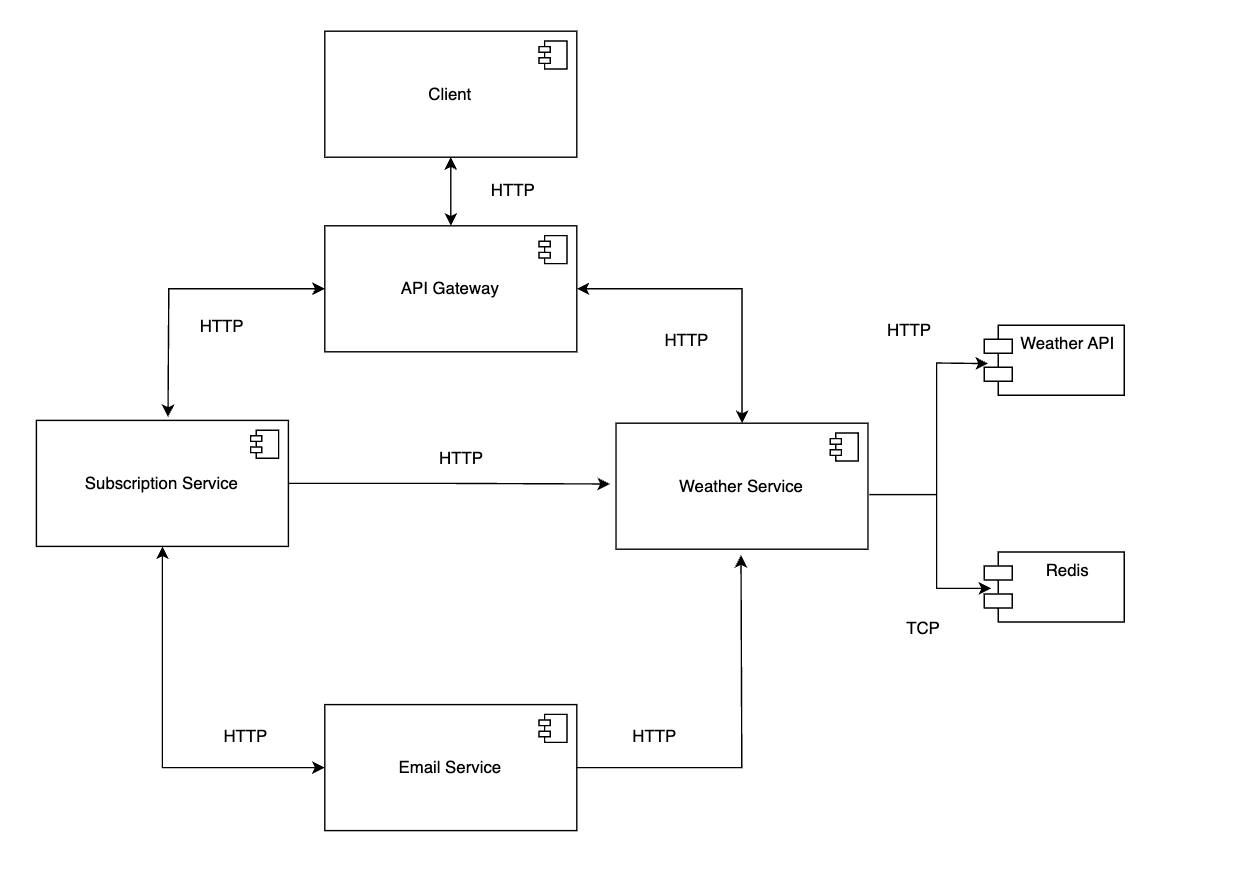
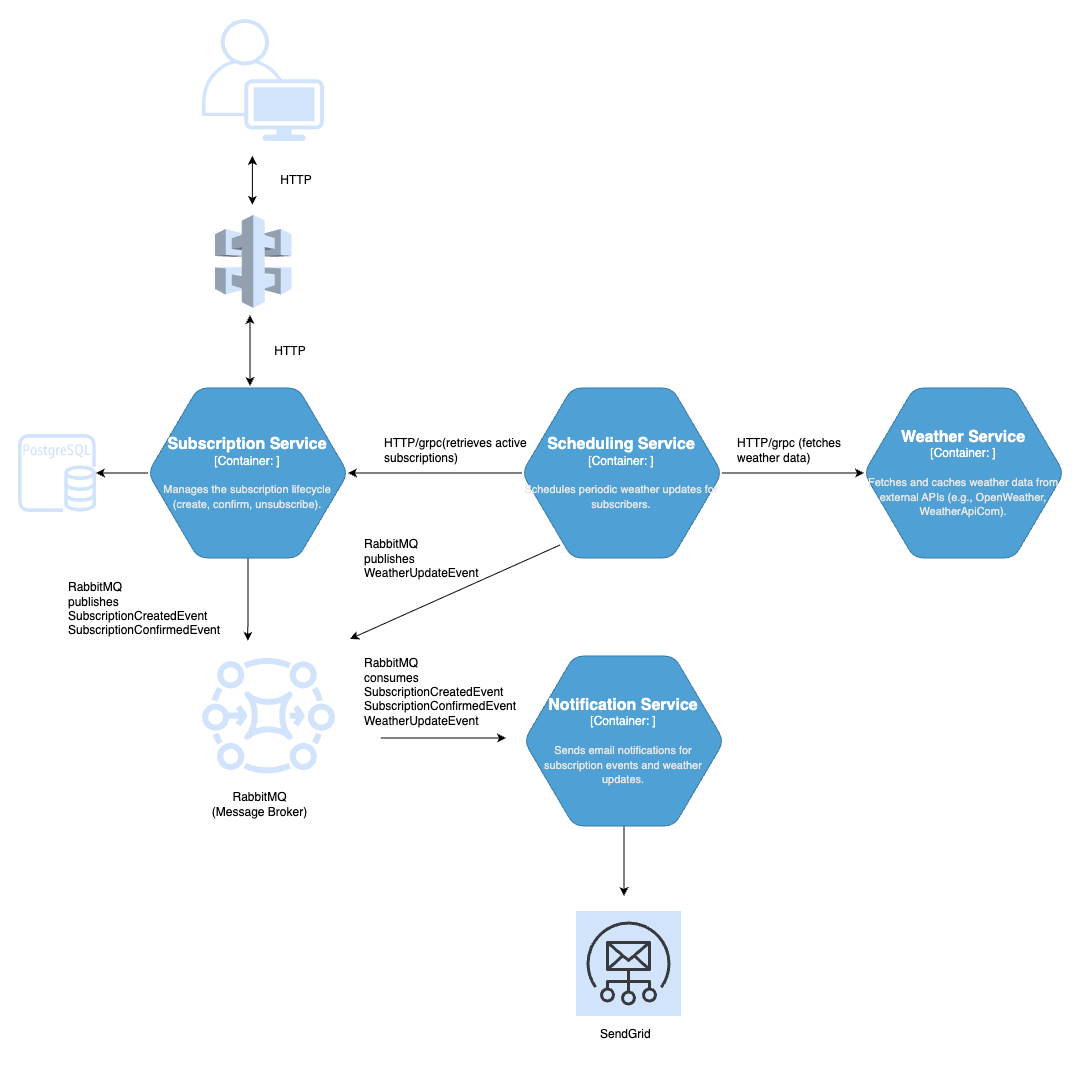
Refine microservices seperation

diff --git a/docs/microservices.md b/docs/microservices.md
@@ -1,164 +1,62 @@
+## Microservice Seperation
 
-1.Microservices Breakdown
-   The application is split into the following independent microservices, each with a clearly defined responsibility:
-   2.1. API Gateway
+- Subscription Service: Manages user subscriptions, a core business domain with distinct logic and database (e.g., Sequelize for subscription data).
+- Weather Service: Handles external API calls and caching, which can be resource-intensive and benefits from independent scaling.
+- Notification Service: Manages email sending, which can be computationally expensive and requires integration with external services (e.g., SMTP servers). It’s a natural fit for a separate service, especially with upcoming task to add a message broker.
+- Scheduling Service: Coordinates periodic tasks, which can be isolated to avoid impacting other services’ performance.
+## 🔄 Optimal Microservice Communication
 
-Responsibility: Acts as the single entry point for external clients, routing HTTP requests to the appropriate microservices.
-Purpose: Centralizes request handling, authentication, and load balancing, providing a unified interface for clients.
-Interface: REST HTTP (accepts client requests and forwards them to internal services).
-Example Endpoints:
-POST /subscriptions: Create a new subscription.
-GET /weather: Fetch weather data for a city.
+#### Synchronous Communication (REST/HTTP):
 
+Use Case: For immediate, request-response interactions, such as fetching weather data or creating subscriptions.
 
-Location: Deployed as a standalone service, potentially using a framework like Express.js.
+#### Asynchronous Communication (Message Broker):
 
-2.2. Subscription Service
+Use Case: For event-driven interactions, such as notifying the Notification Service about subscription events or triggering weather updates.
 
-Responsibility: Manages user subscriptions, including creation, confirmation, and deletion.
-Stores: User email, subscription frequency (hourly, daily), and subscription status.
-Interface: REST HTTP (exposes endpoints for subscription management).
-Example Endpoints:
-POST /subscriptions: Create a new subscription.
-DELETE /subscriptions/:id: Unsubscribe a user.
-GET /subscriptions/confirmed: Retrieve confirmed subscribers.
+## 🔄 User Flow in Microservices Architecture
 
+The detailed flow of the user interaction mapped to my microservices architecture:
 
-Location: src/services/subscription-service/.
+1. **User Enters Email, City, and Frequency**:
+   - The user accesses a web page served by the **User Interface** (an Express.js app).
+   - They input their email (e.g., `user@example.com`), city (e.g., `Kyiv`), and frequency (e.g., `hourly`) into a form.
+   - The form submits a `POST /subscriptions` request to the **Subscription Service**.
 
-2.3. Weather Service
+2. **User Clicks "Subscribe"**:
+   - **The Subscription Service**:
+      - Validates the input using `subscriptionValidator.ts`.
+      - Executes `CreateSubscriptionUseCase`, which:
+         - Creates a `Subscription` entity with a pending status and generates confirmation/unsubscribe tokens.
+         - Saves the subscription to the database via `SequelizeSubscriptionRepository`.
+         - Publishes a `SubscriptionCreatedEvent` to the `subscription.created` queue in RabbitMQ.
+      - Returns a success response to the User Interface (e.g., `{ message: "Subscription created, please check your email" }`).
+   - **The Notification Service**:
+      - Consumes the `SubscriptionCreatedEvent` from RabbitMQ.
+      - Executes `sendConfirmationEmail` via `EmailService`, sending a confirmation email with a link (e.g., `GET /subscriptions/confirm/:token`).
 
-Responsibility:
-Fetches current weather data from external APIs.
-Caches weather data to optimize performance.
+3. **User Receives Confirmation Email**:
+   - The user receives an email with a confirmation link (e.g., `http://api.example.com/subscriptions/confirm/abc123`).
+   - The email is sent by the **Notification Service** using `EmailSender` (e.g., Nodemailer).
 
+4. **User Clicks "Confirm"**:
+   - The user clicks the confirmation link, sending a `GET /subscriptions/confirm/:token` request to the **Subscription Service**.
+   - **The Subscription Service**:
+      - Executes `ConfirmSubscriptionUseCase`, which:
+         - Finds the subscription by token using `SequelizeSubscriptionRepository`.
+         - Updates the subscription status to `confirmed`.
+         - Publishes a `SubscriptionConfirmedEvent` to the `subscription.confirmed` queue.
+      - Returns a success response to the User Interface (e.g., `{ message: "Subscription confirmed" }`).
+   - **The Notification Service**:
+      - Consumes the `SubscriptionConfirmedEvent` and sends a confirmation acknowledgment email (optional).
 
-Dependencies:
-External weather API (via REST HTTP).
-Redis (for caching, accessed via REST HTTP or a compatible client).
-
-
-Interface: REST HTTP (for internal calls and external API interactions).
-Example Endpoints:
-GET /weather/:city: Retrieve weather data for a specific city.
-POST /weather/cache: Store weather data in cache.
-
-
-Location: src/services/weather-service/.
-
-2.4. Email Service
-
-Responsibility:
-Sends emails for subscription confirmation, weather forecasts, and unsubscribe actions.
-Manages email templates and schedules forecast emails (e.g., via cron jobs).
-
-
-Dependencies: External email providers (accessed via REST HTTP APIs or SMTP wrapped in HTTP).
-Interface: REST HTTP (for internal calls from other services).
-Example Endpoints:
-POST /emails/confirmation: Send a subscription confirmation email.
-POST /emails/forecast: Send weather forecast emails to subscribers.
-
-
-Location: src/services/email-service/.
-
-2. Communication Strategy
-   All inter-service communication is implemented using REST HTTP to ensure simplicity, compatibility, and ease of debugging. The communication flow between services is outlined below:
-
-
-
-Source
-Destination
-Purpose
-Protocol / Method
-
-
-
-Client
-API Gateway
-Entry point for all client requests
-REST HTTP (e.g., POST /subscriptions)
-
-
-API Gateway
-Subscription Service
-Forward requests to manage user subscriptions
-REST HTTP (e.g., POST /subscriptions)
-
-
-API Gateway
-Weather Service
-Forward requests to fetch weather data
-REST HTTP (e.g., GET /weather/:city)
-
-
-Subscription Service
-Email Service
-Trigger confirmation or unsubscribe emails
-REST HTTP (e.g., POST /emails/confirmation)
-
-
-Subscription Service
-Weather Service
-Validate user-provided city by fetching weather data
-REST HTTP (e.g., GET /weather/:city)
-
-
-Weather Service
-External API
-Retrieve weather forecast data
-REST HTTP (e.g., GET /api/weather)
-
-
-Weather Service
-Redis
-Cache weather data for reuse
-REST HTTP (via Redis HTTP client or adapter)
-
-
-Email Service
-Subscription Service
-Fetch confirmed subscribers for forecast emails
-REST HTTP (e.g., GET /subscriptions/confirmed)
-
-
-Email Service
-Weather Service
-Retrieve weather data for each subscriber's city
-REST HTTP (e.g., GET /weather/:city)
-
-
-
-REST HTTP Details:
-All services expose RESTful APIs with standard HTTP methods (GET, POST, PUT, DELETE).
-JSON is used as the data format for requests and responses.
-Authentication between services (if needed) can be implemented using API keys or JWT tokens passed in HTTP headers.
-Error handling follows standard HTTP status codes (e.g., 200 OK, 400 Bad Request, 500 Internal Server Error).
-
-
-
-3. Integration with Existing Structure
-   The microservices architecture aligns with the existing monolithic structure, which uses Layered Architecture with DDD and SOLID/GRASP influences:
-
-Controllers from the monolith are moved to the API Gateway and individual services’ HTTP endpoints.
-Services are split into Subscription Service, Weather Service, and Email Service.
-Repositories remain within their respective services (e.g., ISubscriptionRepository in Subscription Service).
-Models (e.g., Subscription.ts) are reused in the Subscription Service’s Domain layer.
-Middleware for validation or error handling is integrated into the API Gateway or individual services.
-Utils (e.g., email providers) are incorporated into the Email Service or Weather Service as needed.
-Types/Interfaces (e.g., WeatherDataDTO.ts) are shared across services to maintain consistent contracts.
-
-4. Benefits of the Microservices Architecture
-
-Independent Deployment: Each service can be developed, deployed, and scaled independently.
-Scalability: Services like the Weather Service, which may experience high load due to API calls, can be scaled separately.
-Maintainability: Smaller, focused services are easier to understand and update.
-Technology Flexibility: Each service can use different technologies if needed, though all currently use Node.js/TypeScript with REST HTTP.
-Fault Isolation: A failure in one service (e.g., Email Service) does not affect others (e.g., Subscription Service).
-
-5. Potential Considerations
-
-Increased Complexity: Managing multiple services requires additional effort for deployment, monitoring, and orchestration (e.g., using Kubernetes or Docker).
-Network Latency: REST HTTP communication introduces latency compared to in-memory calls in a monolith. Optimize API calls and caching strategies.
-Data Consistency: Each service manages its own data store, requiring careful design to ensure consistency (e.g., eventual consistency for subscriptions).
-API Design: Ensure REST endpoints are well-documented and follow best practices (e.g., using OpenAPI/Swagger).
+5. **User Receives Weather Updates (Hourly or Daily)**:
+   - **The Scheduling Service**:
+      - Runs a cron job (via `WeatherUpdateScheduler`) based on the frequency (hourly or daily).
+      - Queries the **Subscription Service** via REST (`GET /subscriptions?frequency=hourly`) to retrieve active subscriptions.
+      - For each subscription’s city, calls the **Weather Service** via REST (`GET /weather/:city`) to fetch weather data.
+      - Publishes a `WeatherUpdateEvent` to the `weather.update` queue in RabbitMQ, including the subscription details and weather data.
+   - **The Notification Service**:
+      - Consumes the `WeatherUpdateEvent` from RabbitMQ.
+      - Executes `sendWeatherUpdate` via `EmailService`, sending a weather update email to the user’s email address.
+      - The email includes an unsubscribe link (e.g., `http://api.example.com/subscriptions/un
